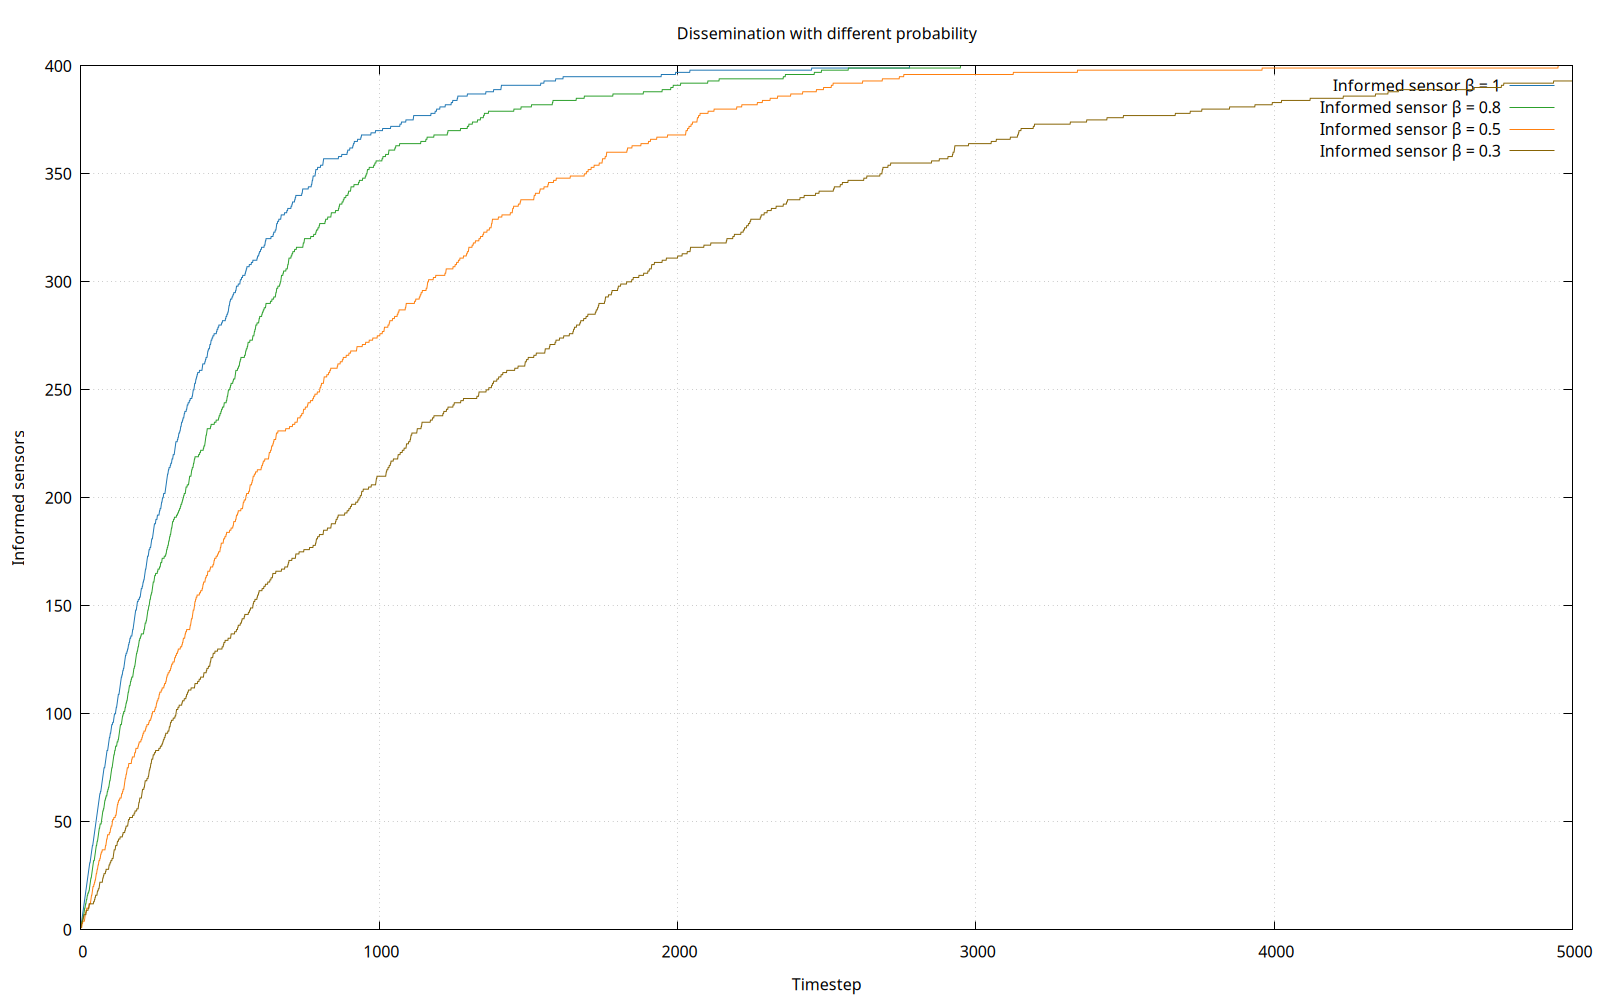
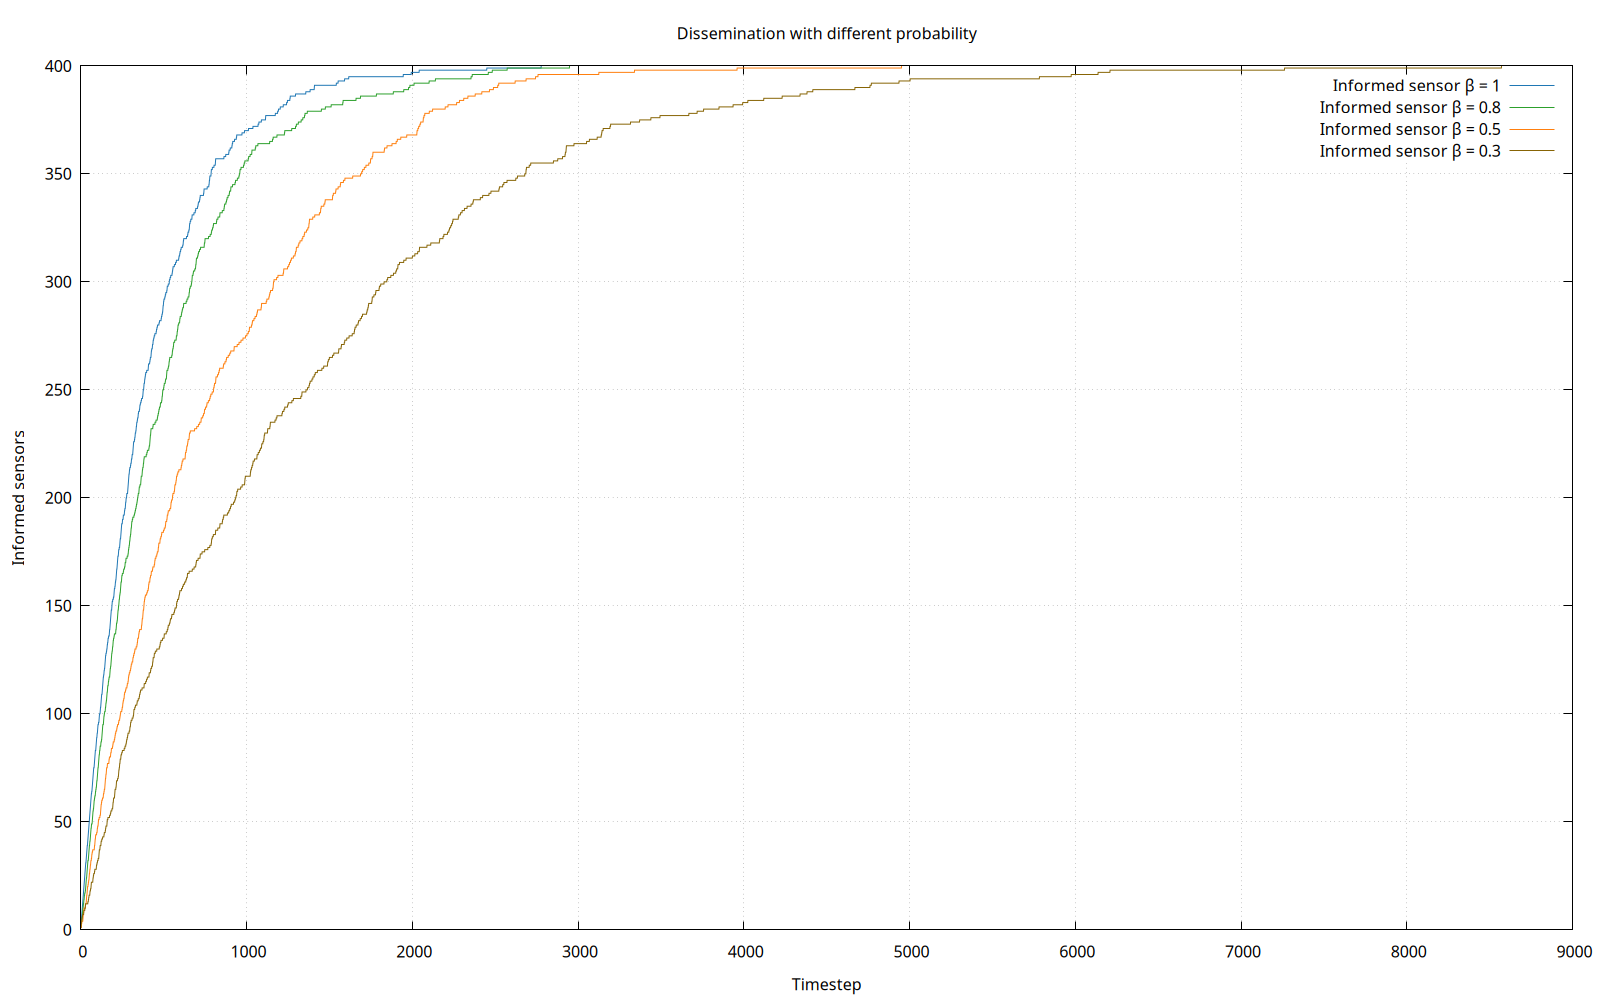
cinema

diff --git a/lab/07/earthquake.c b/lab/07/earthquake.c
@@ -1,46 +1,73 @@
 #include <stdio.h>
 #include <stdlib.h>
-#include <time.h> 
+#include <time.h>
 
 #define Fout 0.001
 #define Fcrit 4
 
-int main(){
+int main() {
     srand(time(NULL));
 
-    int timestep = 0;
-    int intensityValue = 0;
-    int i, j;
-    float innerSurface[10][20];
-    float copy[10][20];
-    int intensity[10][20] = {0};
-    
+    int i, j, intensity = 0;
+    float current[10][20]; 
+    float next[10][20] = {0};
+    int distribution[10][20] = {0}, t = 0, min = 0, max = 4;
+    FILE *fp1;
+
+    fp1 = fopen("results.csv", "w");
+
     for (i = 0; i < 10; i++) {
         for (j = 0; j < 20; j++) {
-            innerSurface[i][j] = ((float)rand() / RAND_MAX) * 4;
-            copy[i][j] = innerSurface[i][j];
+            double range = (max - min);
+            double div = RAND_MAX / range;
+            current[i][j] = min + (rand() / div);
         }
     }
-
-    int stop = 0;
-    while (!stop) {
-        for (i=0; i<10; i++){
-            for (j=0; j<20; j++){
-               innerSurface[i][j] += Fout; 
-            }
-        }
-        timestep++;
-        for (i=0; i<10; i++){
-            for (j=0; j<20; j++){
-                if (innerSurface[i][j] >= Fcrit && intensity[i][j] == 0){
-                    intensity[j][j] = 1;
-                    printf("Timestep: %d \t Innersurface[%d][%d]: %f \t intensity: %d\n", timestep, i, j, innerSurface[i][j], intensityValue);
-                    stop = 1;
-                    break;
+    int allLessThanFcrit = 1;
+    while (t < 1000000) {
+        for (i = 0; i < 10; i++) {
+            for (j = 0; j < 20; j++) {
+                if (current[i][j] >= Fcrit) {
+                    allLessThanFcrit = 0;
+                    if (i == 0)
+                        next[i + 1][j] = 0.25 * current[i][j];
+                    else if (i == 9)
+                        next[i - 1][j] = 0.25 * current[i][j];
+                    else {
+                        next[i + 1][j] = 0.25 * current[i][j];
+                        next[i - 1][j] = 0.25 * current[i][j];
+                    }
+                    if (j == 0)
+                        next[i][j + 1] = 0.25 * current[i][j];
+                    else if (j == 9)
+                        next[i][j - 1] = 0.25 * current[i][j];
+                    else {
+                        next[i][j + 1] = 0.25 * current[i][j];
+                        next[i][j - 1] = 0.25 * current[i][j];
+                    }
+                    next[i][j] = 0;
+                    distribution[i][j] = 1;
+                    //checkpoint
                 }
             }
-            if (stop) break;
+            for (i = 0; i < 10; i++) {
+                for (j = 0; j < 20; j++) {
+                    current[i][j] += next[i][j];
+                    next[i][j] = 0;
+                }
+            }
+        }
+        if (allLessThanFcrit) {
+            fprintf(fp1, "%d 0\n", t);
+            t++;
+            for (i = 0; i < 10; i++) {
+                for (j = 0; j < 20; j++) {
+                    current[i][j] += Fout;
+                    next[i][j] += Fout;
+                }
+            }
         }
     }
+    fclose(fp1);
     return 0;
 }

diff --git a/lab/07/bizzare.c b/lab/07/bizzare.c
@@ -1,0 +1,111 @@
+#include <stdio.h>
+#include <stdlib.h>
+#include <time.h>
+
+#define Fout 0.001
+#define Fcrit 4
+
+int main() {
+  srand(time(NULL));
+
+  int i, j, intensity = 0;
+  float current[10][20]; 
+  float next[10][20] = {0};
+  int distribution[10][20] = {0}, t = 0, min = 0, max = 4;
+  FILE *fp1;
+
+  fp1 = fopen("results.csv", "w");
+
+  for (i = 0; i < 10; i++) {
+    for (j = 0; j < 20; j++) {
+      double range = (max - min);
+      double div = RAND_MAX / range;
+      current[i][j] = min + (rand() / div);
+    }
+  }
+while (t < 1000000) {
+    int allLessThanFcrit = 1;
+
+    // Check if any element in the current array surpasses or equals Fcrit
+    for (i = 0; i < 10; i++) {
+        for (j = 0; j < 20; j++) {
+            if (current[i][j] >= Fcrit) {
+                allLessThanFcrit = 0;
+                if (i == 0)
+                    next[i + 1][j] = 0.25 * current[i][j];
+                else if (i == 9)
+                    next[i - 1][j] = 0.25 * current[i][j];
+                else {
+                    next[i + 1][j] = 0.25 * current[i][j];
+                    next[i - 1][j] = 0.25 * current[i][j];
+                }
+                if (j == 0)
+                    next[i][j + 1] = 0.25 * current[i][j];
+                else if (j == 19)
+                    next[i][j - 1] = 0.25 * current[i][j];
+                else {
+                    next[i][j + 1] = 0.25 * current[i][j];
+                    next[i][j - 1] = 0.25 * current[i][j];
+                }
+                next[i][j] = 0;
+                distribution[i][j] = 1;
+                //checkpoint
+            }
+        }
+    }
+
+    int continueLoop = 1;
+    while (continueLoop) {
+        continueLoop = 0;
+        for (i = 0; i < 10; i++) {
+            for (j = 0; j < 20; j++) {
+                if (current[i][j] >= Fcrit) {
+                    continueLoop = 1;
+                    break;
+                }
+            }
+            if (continueLoop) break;
+        }
+
+        if (!continueLoop) {
+            // Aggregate and print the distribution array
+            int sum = 0;
+            for (i = 0; i < 10; i++) {
+                for (j = 0; j < 20; j++) {
+                    sum += distribution[i][j];
+                }
+            }
+            fprintf(fp1, "Timestamp: %d, Sum: %d\n", t, sum);
+
+            // Initialize the distribution array to 0
+            for (i = 0; i < 10; i++) {
+                for (j = 0; j < 20; j++) {
+                    distribution[i][j] = 0;
+                }
+            }
+        }
+
+        // Update current array with next array values
+        for (i = 0; i < 10; i++) {
+            for (j = 0; j < 20; j++) {
+                current[i][j] += next[i][j];
+                next[i][j] = 0;
+            }
+        }
+    }
+
+    if (allLessThanFcrit) {
+        fprintf(fp1, "%d 0\n", t);
+        t++;
+        for (i = 0; i < 10; i++) {
+            for (j = 0; j < 20; j++) {
+                current[i][j] += Fout;
+                next[i][j] += Fout;
+            }
+        }
+    }
+}
+
+fclose(fp1);
+return 0;
+}

diff --git a/lab/02/lab02.c b/lab/02/lab02.c
@@ -14,9 +14,11 @@ typedef struct
 
 int main()
 {
+  //Make the network array
     Computer computers[NUM_COMPUTERS + 1];
     srand(time(NULL));
 
+    //write a file
     FILE *fp = fopen("lab03.txt", "w");
     if (fp == NULL)
     {
@@ -24,6 +26,7 @@ int main()
         return 1;
     }
 
+    //initialize computers
     for (int i = 1; i <= NUM_COMPUTERS; i++)
     {
         computers[i].status = HEALTHY;
@@ -39,7 +42,7 @@ int main()
     
     while (immune >= NUM_COMPUTERS){
         timestep++;
-        //infectedNew to maintain the loop check rule
+        //We define infectedNew to maintain the loop check rule
         int infectedNew = 0;
         for (int i = 0; i < infected; i++){
             int random = (rand() % NUM_COMPUTERS) + 1;
